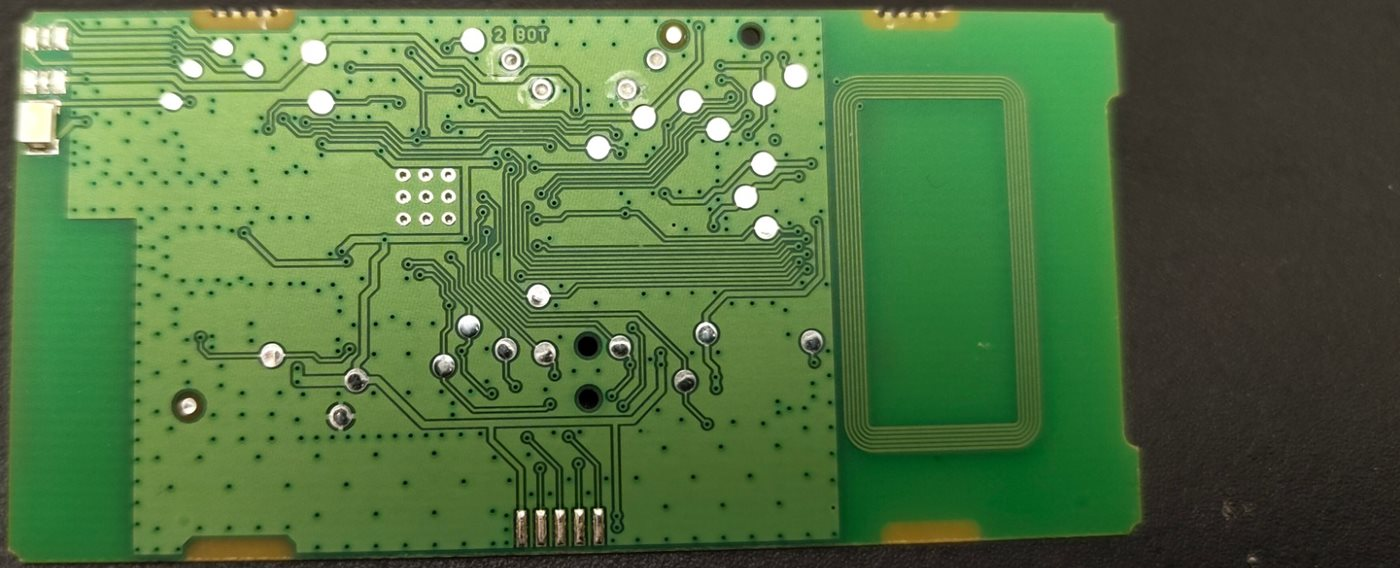
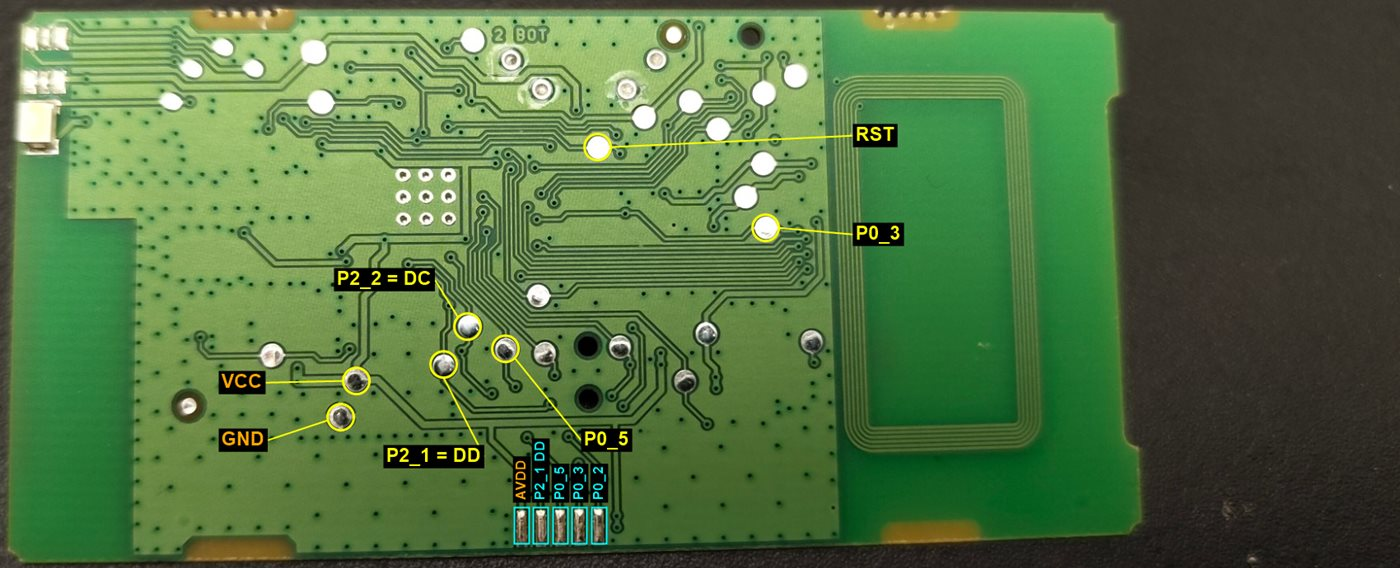
docs: pads medidos de la cara inferior y conectores de 5 pads
Las fotos marcan ahora los pads de la cara inferior usados para grabar
(RST, P0_3, DC, DD, P0_5, VCC, GND) y cada pad de los dos conectores del
borde, verificados con el polímetro.

diff --git a/README.md b/README.md
@@ -29,6 +29,10 @@ Placa **RFRTx024A** (VUSION 2.6 BWR, GL320). Todo comprobado en la placa real.
 |---|---|
 | ![Cara superior](docs/placa_superior.jpg) | ![Cara inferior](docs/placa_inferior.jpg) |
 
+En las fotos están marcados los pads medidos con el polímetro en esta placa, incluidos los dos
+conectores de 5 pads del borde (en la cara superior, el pad marcado con "1" es GND). Con el
+de la cara superior y DD del de la inferior se puede grabar sin soldar en los pads redondos.
+
 | Componente | Detalle |
 |---|---|
 | MCU + radio | **TI CC2510** (8051, 32 KB flash, 4 KB RAM, radio tipo CC2500). Chip ID `0x8104` |

diff --git a/README_EN.md b/README_EN.md
@@ -29,6 +29,10 @@ Board **RFRTx024A** (VUSION 2.6 BWR, GL320). Everything verified on the real boa
 |---|---|
 | ![Top side](docs/placa_superior.jpg) | ![Bottom side](docs/placa_inferior.jpg) |
 
+The photos show the pads measured with a multimeter on this board, including the two 5-pad edge
+connectors (on the top side, the pad marked "1" is GND). The top connector plus DD from the
+bottom one are enough to flash without soldering to the round pads.
+
 | Part | Details |
 |---|---|
 | MCU + radio | **TI CC2510** (8051, 32 KB flash, 4 KB RAM, CC2500-like radio). Chip ID `0x8104` |
